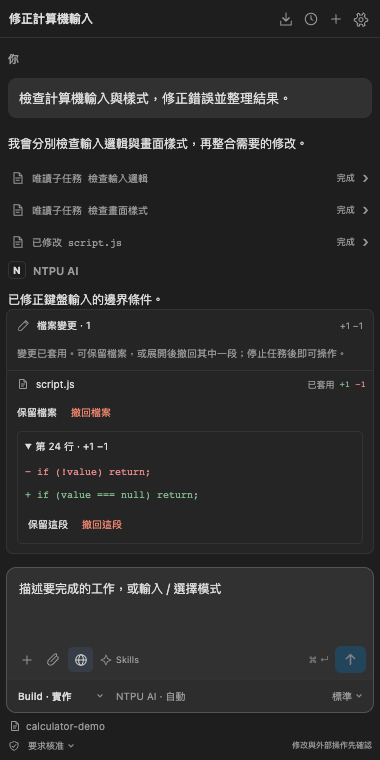
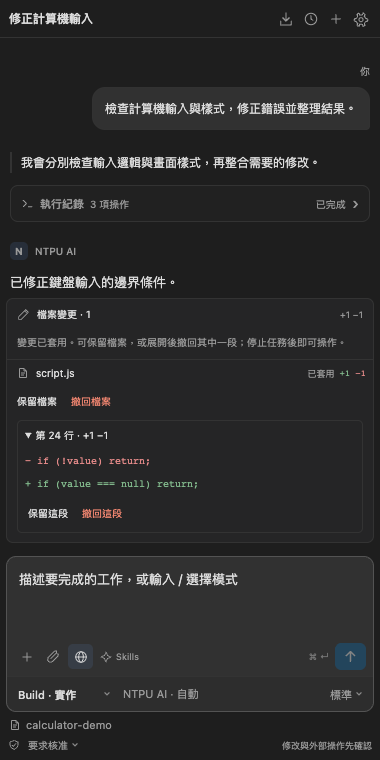
Improve chat readability with right-aligned prompts and grouped execution records

diff --git a/media/agent-ui.js b/media/agent-ui.js
@@ -58,8 +58,46 @@ function empty() {
   welcome.append(grid); return welcome;
 }
 
+function readableResult(content, message, result) {
+  if (!result || typeof result !== 'object') { content.append(element('pre', 'tool-output', message.result)); return; }
+  let readable = false;
+  if (message.name === 'agent_task') {
+    if (result.activity) content.append(element('div', 'execution-meta', result.activity));
+    if (result.retryReason) content.append(element('p', 'result-note', '重試原因：' + result.retryReason));
+    if (typeof result.result === 'string' && result.result.trim()) { content.append(markdown(result.result)); readable = true; }
+  } else {
+    const text = result.error || result.message || result.text || (typeof result.content === 'string' ? result.content : '');
+    if (text) { content.append(element('pre', 'tool-output' + (result.ok === false ? ' result-error' : ''), text)); readable = true; }
+    if (Array.isArray(result.files)) { content.append(element('pre', 'tool-output', result.files.join('\n') || '沒有符合條件的檔案。')); readable = true; }
+    if (Array.isArray(result.matches)) { content.append(element('pre', 'tool-output', result.matches.map(item => `${item.path}:${item.line}  ${item.text}`).join('\n') || '沒有符合條件的結果。')); readable = true; }
+    if (Number.isFinite(result.start_line)) content.prepend(element('div', 'execution-meta', `第 ${result.start_line}–${result.end_line} 行${result.truncated ? ' · 已截短' : ' · 完整讀取此區段'}`));
+    if (result.saved || result.changed === false) { content.append(element('p', 'result-note', result.changed === false ? '檔案內容無需變更。' : '檔案已儲存，可在「檔案變更」查看或撤回。')); readable = true; }
+  }
+  if (!readable) { content.append(element('pre', 'tool-output', message.result)); return; }
+  const raw = element('details', 'raw-result'); raw.append(element('summary', '', '完整資料'), element('pre', 'tool-output', message.result)); content.append(raw);
+}
+function updateExecutionGroup(group) {
+  if (!group) return;
+  const rows = [...group.querySelectorAll('.message.tool')];
+  const running = rows.filter(row => ['running', 'approval'].includes(row.dataset.status)).length;
+  const issues = rows.filter(row => ['error', 'denied', 'interrupted'].includes(row.dataset.status)).length;
+  group.querySelector('.execution-count').textContent = `${rows.length} 項操作`;
+  group.querySelector('.execution-state').textContent = running ? `${running} 項進行中` : issues ? `${issues} 項需查看` : '已完成';
+  group.classList.toggle('has-issues', !!issues); group.classList.toggle('is-running', !!running);
+  if (!group.dataset.manual) group.open = !!running;
+}
+function executionGroup() {
+  const group = element('details', 'execution-group');
+  const summary = element('summary', 'execution-summary');
+  summary.append(icon('terminal'), element('span', 'execution-label', '執行紀錄'), element('span', 'execution-count'), element('span', 'execution-state'), element('span', 'tool-chevron', '›'));
+  summary.addEventListener('click', () => { group.dataset.manual = 'true'; });
+  group.addEventListener('click', event => { if (event.target.closest('.tool-card')) group.dataset.manual = 'true'; });
+  group.append(summary, element('div', 'execution-rows')); return group;
+}
+
 function renderMessage(message) {
-  const wrapper = element('article', 'message ' + message.role); wrapper.dataset.id = message.id;
+  const wrapper = element('article', 'message ' + message.role); wrapper.dataset.id = message.id; wrapper.dataset.status = message.status || '';
+  wrapper.setAttribute('aria-label', message.role === 'user' ? '你的提問' : message.role === 'tool' ? '工具執行' : 'Agent 訊息');
   if (message.role === 'tool') {
     const details = element('details', 'tool-card ' + message.status);
     const summary = element('summary', 'tool-summary');
@@ -69,6 +107,7 @@ function renderMessage(message) {
       write_file: message.outcome?.changed === false ? '檔案無需變更' : message.outcome?.created ? '已建立' : '已修改', edit_file: '已修改',
       run_command: '已執行', web_search: '已搜尋網路', web_fetch: '已讀取網頁', create_visual: '已繪製', inspect_image: '已分析圖片',
       load_skill: '已載入 skill', update_plan: '已更新計畫' }[message.name] || label;
+    if (message.name === 'agent_task') label = { explore: '探索子任務', research: '研究子任務', review: '審查子任務' }[message.args?.role] || '子任務';
     const meta = element('div', 'tool-meta'); meta.append(element('strong', '', label));
     const args = message.args || {}, hint = args.path || args.command || args.query || args.url || args.name;
     if (hint) meta.append(element('span', 'tool-hint', String(hint).slice(0, 180)));
@@ -83,9 +122,9 @@ function renderMessage(message) {
       if (message.liveOutput || result?.output) content.append(element('pre', 'tool-output terminal-output', result?.output || message.liveOutput));
       if (result) content.append(element('div', 'execution-meta', `退出碼：${result.exit_code ?? '—'}${result.timed_out ? ' · 逾時' : ''}${result.truncated ? ' · 輸出已截短' : ''}`));
       if (result?.error || result?.denied) content.append(element('pre', 'tool-output', result.error || result.message));
-    } else if (message.result) content.append(element('pre', 'tool-output', message.result));
+    } else if (message.result) readableResult(content, message, result);
     else if (Object.keys(args).length) content.append(element('pre', 'tool-output', JSON.stringify(args, null, 2)));
-    if (message.finishedAt) content.append(element('span', 'elapsed', '總耗時（含核准等待）：' + ((message.finishedAt - message.startedAt) / 1000).toFixed(1) + ' 秒'));
+    if (message.finishedAt && message.startedAt) content.append(element('span', 'elapsed', '總耗時（含核准等待）：' + ((message.finishedAt - message.startedAt) / 1000).toFixed(1) + ' 秒'));
     details.append(summary, content); wrapper.append(details); return wrapper;
   }
   if (message.role === 'artifact') {
@@ -94,27 +133,67 @@ function renderMessage(message) {
     const actions = element('div', 'artifact-actions'); actions.append(button('檢視圖片', 'text-button', () => send('openArtifact', { id: message.artifactId }), 'image'), button('另存圖片', 'text-button', () => send('saveArtifact', { id: message.artifactId }), 'export')); wrapper.append(actions);
     return wrapper;
   }
-  if (['notice', 'error', 'commentary'].includes(message.role)) { wrapper.append(element('div', 'notice-text', message.text)); return wrapper; }
+  if (['notice', 'error', 'commentary'].includes(message.role)) { wrapper.hidden = !message.text?.trim(); if (message.role === 'error') wrapper.append(element('strong', 'notice-title', '需要處理')); wrapper.append(element('div', 'notice-text', message.text)); return wrapper; }
   const top = element('div', 'message-heading');
   if (message.role === 'user') top.append(element('span', '', message.canceled ? '你 · 已取消' : message.queued ? '你 · 已排入佇列' : '你'));
   else { const mark = element('span', 'assistant-mark', 'N'); top.append(mark, element('span', '', 'NTPU AI')); }
   top.append(iconButton('copy', '複製訊息', () => send('copy', { text: message.text || '' })));
-  wrapper.append(top, message.role === 'user' ? element('div', 'user-body', message.text) : markdown(message.text));
+  const body = message.role === 'user' ? element('div', 'user-body', message.text) : markdown(message.text);
+  wrapper.append(top, body);
+  if (message.role === 'user' && (message.text?.length > 500 || message.text?.split('\n').length > 8)) {
+    body.classList.add('clamped-request'); body.id = 'request-' + message.id;
+    const toggle = button('展開完整提問', 'text-button user-expand', () => {
+      const expanded = toggle.getAttribute('aria-expanded') !== 'true';
+      toggle.setAttribute('aria-expanded', String(expanded)); body.classList.toggle('clamped-request', !expanded); toggle.querySelector('span').textContent = expanded ? '收合提問' : '展開完整提問';
+    });
+    toggle.setAttribute('aria-expanded', 'false'); toggle.setAttribute('aria-controls', body.id); wrapper.append(toggle);
+  }
   if (message.attachment) { const attached = element('div', 'message-attachment'); attached.append(icon('image'), element('span', '', message.attachment.name)); if (message.attachment.preview) { const image = element('img'); image.src = message.attachment.preview; image.alt = message.attachment.name; attached.append(image); } wrapper.append(attached); }
   return wrapper;
 }
 function nearBottom() { return $('messages').scrollHeight - $('messages').scrollTop - $('messages').clientHeight < 100; }
 function addMessage(message, replace = false) {
-  const follow = nearBottom(); const old = nodes.get(message.id); const open = old?.querySelector('details')?.open;
+  const follow = nearBottom(); const old = nodes.get(message.id); const open = old?.querySelector('details')?.open; const rawOpen = old?.querySelector('.raw-result')?.open; const userExpanded = old?.querySelector('.user-expand')?.getAttribute('aria-expanded') === 'true';
   const item = renderMessage(message);
-  if (old && replace) { if (open && item.querySelector('details')) item.querySelector('details').open = true; old.replaceWith(item); }
-  else { $('messages').querySelector('.welcome')?.remove(); $('messages').append(item); }
+  if (old && replace) {
+    const group = old.closest('.execution-group');
+    if (open && item.querySelector('details')) item.querySelector('details').open = true;
+    if (userExpanded) item.querySelector('.user-expand')?.click();
+    if (rawOpen && item.querySelector('.raw-result')) item.querySelector('.raw-result').open = true;
+    old.replaceWith(item); updateExecutionGroup(group);
+  } else {
+    $('messages').querySelector('.welcome')?.remove();
+    if (message.role === 'tool') {
+      let group = $('messages').lastElementChild;
+      if (group?.classList.contains('execution-group')) {
+        group.querySelector('.execution-rows').append(item); updateExecutionGroup(group);
+      } else if (group?.classList.contains('tool')) {
+        const previous = group; group = executionGroup(); previous.before(group);
+        if (previous.querySelector('.tool-card')?.open) group.dataset.manual = 'true';
+        group.querySelector('.execution-rows').append(previous, item); updateExecutionGroup(group);
+        if (group.dataset.manual) group.open = true;
+      } else $('messages').append(item);
+    } else $('messages').append(item);
+  }
   nodes.set(message.id, item); if (follow) $('messages').scrollTop = $('messages').scrollHeight;
 }
 function renderSession(value) {
+  const expandedUsers = new Set([...$('messages').querySelectorAll('.user-expand[aria-expanded="true"]')].map(node => node.closest('.message').dataset.id));
+  const openRaw = new Set([...$('messages').querySelectorAll('.raw-result[open]')].map(node => node.closest('.message').dataset.id));
+  const openTools = new Set([...$('messages').querySelectorAll('.tool-card[open]')].map(node => node.closest('.message').dataset.id));
+  const groupChoices = new Map();
+  for (const group of $('messages').querySelectorAll('.execution-group[data-manual]')) for (const row of group.querySelectorAll('.message.tool')) groupChoices.set(row.dataset.id, group.open);
   session = value; nodes.clear(); $('messages').replaceChildren();
   $('rename').textContent = value.title;
   if (!value.messages.length) $('messages').append(empty()); else value.messages.forEach(message => addMessage(message));
+  for (const id of expandedUsers) nodes.get(id)?.querySelector('.user-expand')?.click();
+  for (const id of openRaw) { const details = nodes.get(id)?.querySelector('.raw-result'); if (details) details.open = true; }
+  for (const id of openTools) { const details = nodes.get(id)?.querySelector('.tool-card'); if (details) details.open = true; if (openRaw.has(id) && nodes.get(id)?.querySelector('.raw-result')) nodes.get(id).querySelector('.raw-result').open = true; }
+  for (const group of $('messages').querySelectorAll('.execution-group')) {
+    const saved = [...group.querySelectorAll('.message.tool')].find(row => groupChoices.has(row.dataset.id));
+    if (saved) { group.dataset.manual = 'true'; group.open = groupChoices.get(saved.dataset.id); }
+    else if ([...group.querySelectorAll('.message.tool')].some(row => openTools.has(row.dataset.id))) { group.dataset.manual = 'true'; group.open = true; }
+  }
   if (value.hasMore) $('messages').prepend(button('載入較早訊息（' + value.before + ' 則）', 'secondary-button history-more', () => send('historyPage', { before: value.before })));
   renderPlan(value.plan || []); renderChanges(value.changes || []); $('messages').scrollTop = $('messages').scrollHeight;
 }

diff --git a/media/agent.css b/media/agent.css
@@ -79,3 +79,45 @@
 .login-notice.needs-login > svg{color:var(--vscode-editorWarning-foreground,var(--muted))}
 .login-primary{margin-top:10px;padding:7px 12px;border:0;border-radius:5px;background:var(--vscode-button-background);color:var(--vscode-button-foreground);font-weight:500;cursor:pointer}
 .login-primary:hover{background:var(--vscode-button-hoverBackground)}.login-primary:disabled{opacity:.6;cursor:default}
+
+/* Conversation hierarchy: right-aligned user bubbles, full-width Agent prose. */
+.conversation{padding:14px 10px 10px;scroll-padding-bottom:12px}
+.message{margin:0 0 22px;max-width:100%}
+.message.user{width:fit-content;max-width:90%;margin:8px 0 22px auto}
+.message.user .message-heading{justify-content:flex-end;margin-bottom:5px;font-size:10px;font-weight:400}
+.message.user .message-heading .icon-button{margin-left:0;order:-1}
+.message.user .user-body{border:1px solid color-mix(in srgb,var(--line) 55%,transparent);border-radius:13px 13px 4px 13px;background:var(--vscode-input-background,var(--raised));padding:10px 12px;font-size:12px;line-height:1.75}
+.message.assistant,.message.stream{width:100%;margin:18px 0 24px}
+.message.assistant .message-heading,.message.stream .message-heading{font-size:10px;font-weight:500;margin-bottom:9px}
+.assistant-mark{border:0;background:color-mix(in srgb,var(--accent) 12%,transparent);color:var(--vscode-textLink-foreground,var(--muted));border-radius:5px}
+.markdown{font-size:13px;line-height:1.8}.markdown p{margin:9px 0 13px}.markdown li{margin:5px 0}.markdown table{font-size:12px}.markdown pre code{font-size:11px}
+.message.commentary{margin:10px 0 12px;padding-left:9px;border-left:2px solid var(--line)}
+.message.commentary .notice-text{font-size:12px;line-height:1.75;color:var(--vscode-foreground)}
+.message.notice{padding:7px 9px;border-radius:6px;background:var(--raised);margin:10px 0}
+.message.error{padding:10px 12px;border:1px solid color-mix(in srgb,var(--red) 50%,var(--line));border-radius:7px;margin:12px 0;background:var(--raised)}
+.notice-title{display:block;font-size:12px;margin-bottom:5px;color:var(--vscode-errorForeground,var(--red))}
+.message.error .notice-text{border:0;padding:0;font-size:12px;line-height:1.75}
+.message:focus-within .message-heading .icon-button{opacity:1}
+.execution-group{margin:8px 0 14px;border:1px solid var(--line);border-radius:8px;min-width:0;background:color-mix(in srgb,var(--raised) 45%,transparent)}
+.execution-summary{display:flex;align-items:center;gap:6px;padding:9px 10px;list-style:none;cursor:pointer;color:var(--muted);font-size:10px}
+.execution-summary::-webkit-details-marker{display:none}.execution-summary>svg{width:13px;height:13px}
+.execution-label{font-weight:500;font-size:11px}.execution-count{font-size:10px}.execution-state{margin-left:auto;font-size:10px;white-space:nowrap}
+.execution-group.has-issues .execution-state{color:var(--vscode-editorWarning-foreground,var(--red))}
+.execution-group.is-running .execution-state{color:var(--vscode-textLink-foreground,var(--accent))}
+.execution-group[open]>.execution-summary>.tool-chevron{transform:rotate(90deg)}
+.execution-rows{border-top:1px solid var(--line);padding:5px 6px}
+.execution-rows .message.tool{margin:0}.tool-summary{padding:7px 4px;align-items:flex-start}
+.tool-summary>svg{margin-top:1px}.tool-meta{flex-direction:column;align-items:flex-start;gap:3px}
+.tool-meta strong{font-size:11px;white-space:normal;line-height:1.5}.tool-hint{max-width:100%;font-size:10px}
+.tool-status{margin-top:2px;font-size:10px}.tool-detail{margin:3px 2px 9px 20px;padding:10px;border:0;border-left:2px solid var(--line);border-radius:0;background:var(--raised)}
+.tool-output,.command{font-size:11px;line-height:1.7;max-height:280px}.execution-meta,.elapsed{font-size:10px}
+.tool-detail .markdown{font-size:12px}.result-note{font-size:11px;line-height:1.7;margin:5px 0}.result-error{color:var(--vscode-errorForeground,var(--red))}
+.raw-result{margin-top:9px;border-top:1px solid var(--line);padding-top:7px}.raw-result>summary{font-size:10px;color:var(--muted);cursor:pointer}
+#parallelStatus{font-size:10px;line-height:1.6;padding:4px 10px;overflow-wrap:anywhere}
+.progress{border-top:1px solid var(--line);padding:7px 10px;font-size:11px;flex-wrap:wrap;gap:6px}.budget-label{font-size:9px}
+@media(max-width:280px){.conversation{padding-inline:7px}.message.user{max-width:94%}.execution-summary{gap:4px;padding:8px}.execution-count{display:none}.tool-detail{margin-left:12px}.markdown{font-size:12px}}
+@media(hover:none){.message-heading .icon-button{opacity:1}}
+
+.user-body.clamped-request{display:-webkit-box;-webkit-line-clamp:6;-webkit-box-orient:vertical;overflow:hidden}.user-expand{display:flex;margin:5px 0 0 auto;padding:2px 3px;font-size:10px}
+
+#prompt{font-size:13px;line-height:1.7}.control-row select,.model-button{font-size:11px}.scope-button{font-size:11px}.permissions-footer select{font-size:10px}.permissions-footer>span{font-size:9px}.context-chip,.attachment-card{font-size:11px}

diff --git a/scripts/ui-fixture.js b/scripts/ui-fixture.js
@@ -206,6 +206,42 @@ async function testUI(page, origin) {
     { id: 'd6', role: 'assistant', text: '已修正鍵盤輸入的邊界條件。\n\n- 子任務已完成輸入邏輯與樣式檢查。\n- 可在「檔案變更」保留或撤回修改。\n\n*此畫面為文件示範資料。*' }
   ], plan: [], changes: [] } });
   await send({ ...state, sessionTitle: '修正計算機輸入', workspace: 'calculator-demo' });
+  // The user's bubble is right aligned; Agent Markdown uses the full column.
+  const geometry = async () => page.evaluate(() => {
+    const main = document.getElementById('messages'), user = main.querySelector('.message.user'), assistant = main.querySelector('.message.assistant');
+    const u = user.getBoundingClientRect(), a = assistant.getBoundingClientRect();
+    return { userLeft: u.left, agentLeft: a.left, userRight: u.right, agentRight: a.right, overflow: main.scrollWidth > main.clientWidth + 1 };
+  });
+  for (const width of [260, 380, 720]) {
+    await page.setViewportSize({ width, height: 760 }); const g = await geometry();
+    assert.ok(g.userLeft > g.agentLeft); assert.ok(Math.abs(g.userRight - g.agentRight) < 2); assert.equal(g.overflow, false);
+  }
+  await page.setViewportSize({ width: 380, height: 760 });
+  const longPrompt = { id: 'd1', role: 'user', text: '完整提問內容。'.repeat(100) };
+  await send({ kind: 'patch', message: longPrompt });
+  await page.getByRole('button', { name: '展開完整提問', exact: true }).click();
+  await send({ kind: 'patch', message: { ...longPrompt, queued: true } });
+  await page.waitForFunction(() => document.querySelector('.user-expand')?.getAttribute('aria-expanded') === 'true');
+  assert.equal(await page.locator('.user-body').textContent(), longPrompt.text);
+  await page.getByRole('button', { name: '收合提問', exact: true }).click();
+  await send({ kind: 'patch', message: { id: 'd1', role: 'user', text: '檢查計算機輸入與樣式，修正錯誤並整理結果。' } });
+  assert.equal(await page.locator('.execution-group').count(), 1);
+  assert.equal(await page.locator('.execution-group').evaluate(node => node.open), false, 'finished execution rows collapse by default');
+  assert.match(await page.locator('.execution-summary').textContent(), /3 項操作.*已完成/);
+  await page.locator('.execution-summary').click();
+  await page.locator('[data-id="d3"] .tool-summary').click();
+  await send({ kind: 'patch', message: { id: 'd3', role: 'tool', name: 'agent_task', args: { name: '檢查輸入邏輯' }, status: 'done', result: JSON.stringify({ result: '已檢查鍵盤輸入。', evidence: [{ name: 'read_file', result: { ok: true } }] }) } });
+  await page.waitForFunction(() => document.querySelector('[data-id="d3"] .raw-result'));
+  assert.equal(await page.locator('.execution-group').evaluate(node => node.open), true, 'manual reading is preserved across patches');
+  assert.equal(await page.locator('[data-id="d3"] .raw-result').evaluate(node => node.open), false);
+  assert.equal(await page.locator('[data-id="d3"] .markdown').textContent(), '已檢查鍵盤輸入。\n');
+  await page.screenshot({ path: path.join(__dirname, '..', '.local', 'conversation-detail-ui.png') });
+  await page.locator('.execution-summary').click();
+  await send({ kind: 'patch', message: { id: 'd4', role: 'tool', name: 'agent_task', args: { name: '檢查畫面樣式' }, status: 'error', result: '讀取失敗' } });
+  await page.waitForFunction(() => document.querySelector('.execution-state').textContent.includes('需查看'));
+  assert.match(await page.locator('.execution-summary').textContent(), /1 項需查看/);
+  assert.equal(await page.locator('.execution-group').evaluate(node => node.open), false, 'manual collapse is respected even if an error arrives');
+  await send({ kind: 'patch', message: { id: 'd4', role: 'tool', name: 'agent_task', args: { name: '檢查畫面樣式' }, status: 'done', result: '已檢查 style.css。' } });
   await page.screenshot({ path: path.join(directory, 'docs-chat.png') });
   await send({ kind: 'changes', changes: [{ id: 'doc-file', path: 'script.js', added: 1, removed: 1, hunks: [{ id: 'doc-hunk', line: 24, added: 1, removed: 1, before: 'if (!value) return;\n', after: 'if (value === null) return;\n' }] }] });
   await page.locator('.change-state').waitFor({ state: 'attached' }); await page.locator('#changes').evaluate(node => { node.open = true; }); await page.locator('.change-state').click(); await page.locator('.change-hunk > summary').click();

diff --git a/README.md b/README.md
@@ -2,7 +2,7 @@
 
 NTPU AI Agent 是使用 NTPU AI 網站模型的 VS Code 擴充套件，提供本機專案讀取、檔案修改、工具執行、研究查詢及可接續的 Agent 任務。模型透過專用瀏覽器連線；登入由使用者完成，日常運作使用背景瀏覽器。
 
-**版本：0.6.5 · 實驗性專案 · MIT License**
+**版本：0.6.6 · 實驗性專案 · MIT License**
 
 本專案為第三方工具，與國立臺北大學、Microsoft、OpenAI 及其他參考專案無隸屬或官方背書關係。使用資格、驗證、用量與資料處理仍受校方服務政策約束。
 
@@ -12,7 +12,7 @@ NTPU AI Agent 是使用 NTPU AI 網站模型的 VS Code 擴充套件，提供本
 
 <img src="docs/images/chat.png" alt="聊天與 Agent 任務介面" width="380">
 
-聊天標題與設定入口位於同一列；專案資料夾位於輸入框下方。工具與子任務以可展開的執行紀錄呈現，檔案變更提供整份檔案及個別區段的保留／撤回操作。
+聊天標題與設定入口位於同一列；專案資料夾位於輸入框下方。你的提問以靠右泡泡呈現，Agent 回覆使用完整內容寬度；連續工具與子任務集中於可展開的執行紀錄，完成時預設收合、有異常則顯示提醒，檔案變更提供整份檔案及個別區段的保留／撤回操作。
 
 <img src="docs/images/changes.png" alt="檔案與區段變更檢視" width="380">
 
@@ -25,16 +25,16 @@ NTPU AI Agent 是使用 NTPU AI 網站模型的 VS Code 擴充套件，提供本
 目前透過 GitHub Releases 提供 VSIX，尚未上架 VS Code Marketplace。
 
 1. 安裝 VS Code 1.95 以上，以及 Chrome、Edge 或其他受支援的 Chromium 瀏覽器。
-2. 從 [0.6.5 Releases](https://github.com/xujk0217/ntpu-ai-vscode/releases/tag/v0.6.5) 下載符合系統的安裝檔。
+2. 從 [0.6.6 Releases](https://github.com/xujk0217/ntpu-ai-vscode/releases/tag/v0.6.6) 下載符合系統的安裝檔。
 3. 在 VS Code 擴充套件頁的 `…` 選單選擇 **Install from VSIX…**，安裝後重新載入視窗。
 4. 開啟專案，進入 **NTPU AI** 側欄，按 **登入**，人工完成校方登入或驗證。成功後可關閉登入視窗，擴充套件會接續背景連線。
 
 | 平台 | 安裝檔 |
 | --- | --- |
-| Windows x64 | `ntpu-ai-coder-win32-x64-0.6.5.vsix` |
-| macOS Apple Silicon | `ntpu-ai-coder-darwin-arm64-0.6.5.vsix` |
-| macOS Intel | `ntpu-ai-coder-darwin-x64-0.6.5.vsix` |
-| Linux x64，glibc | `ntpu-ai-coder-linux-x64-0.6.5.vsix` |
+| Windows x64 | `ntpu-ai-coder-win32-x64-0.6.6.vsix` |
+| macOS Apple Silicon | `ntpu-ai-coder-darwin-arm64-0.6.6.vsix` |
+| macOS Intel | `ntpu-ai-coder-darwin-x64-0.6.6.vsix` |
+| Linux x64，glibc | `ntpu-ai-coder-linux-x64-0.6.6.vsix` |
 
 更新時安裝新版 VSIX 並重新載入即可。既有本機聊天、Project Memory 與專用 Browser Profile 沿用原儲存位置。Remote SSH、Dev Container、WSL 必須區分本機 UI Extension Host 與遠端工作區；不能假設遠端主機具備本機桌面瀏覽器。
 

diff --git a/VALIDATION.md b/VALIDATION.md
@@ -1,5 +1,13 @@
 # 本地使用驗證
 
+## 0.6.6 聊天閱讀層次（2026-10-14）
+
+- 提問靠右泡泡，Agent 使用全寬 Markdown；超過 500 字或八行的提問預設顯示六行，可展開／複製完整內容。
+- 連續兩項以上工具集中為執行紀錄，進行中展開、完成後收合；單一工具維持簡潔執行列。錯誤／拒絕／中斷顯示提醒，手動開合及正在閱讀的詳細資料於更新時保留。
+- 子任務先顯示可讀 Markdown 結果，原始資料可另行展開；讀檔行數、搜尋結果及檔案儲存狀態提供可讀呈現。
+- 143 單元測試及 build 通過。localhost Webview 驗收包括 260／380／720 px 的右側對齊、Agent 全寬及無橫向溢出；執行紀錄完成收合／異常提示、手動開合保留、長提問完整內容與更新狀態、既有子任務取消／歷史編輯／變更撤回操作。截圖使用合成示範資料。
+- 本輪 UI 驗收沒有傳送新的校方模型請求；先前真人驗收範圍與跨平台 SSO 限制保留於下列紀錄。
+
 ## 0.6.5 真實有限負載與一次重要重試（2026-10-14）
 
 本次真實負載使用已安裝 0.6.4，macOS arm64／Chrome／既有 NTPU AI 登入，Ask 唯讀模式；每 61 秒窗口八次、240 秒回應逾時、父子共用 50 輪預算。沒有改速率、逾時、Profile 或限制以促使結果成功。

diff --git a/CHANGELOG.md b/CHANGELOG.md
@@ -1,5 +1,11 @@
 # 更新紀錄
 
+## 0.6.6
+
+- 提問靠右泡泡，Agent 全寬 Markdown；長提問支援展開，進度與錯誤有明確層次。
+- 連續工具與子任務收整為可展開執行紀錄，顯示進行／異常狀態，保留手動展開選擇。
+- 工具詳情先呈現可讀文字、檔案與搜尋結果，完整資料保留於下層；子任務區分探索／研究／審查。
+
 ## 0.6.5
 
 - 一般模型逾時／網路錯誤在原排程與預算內恢復兩次；一般工具失敗保留證據並繼續可行工作，服務限制立即停止。
